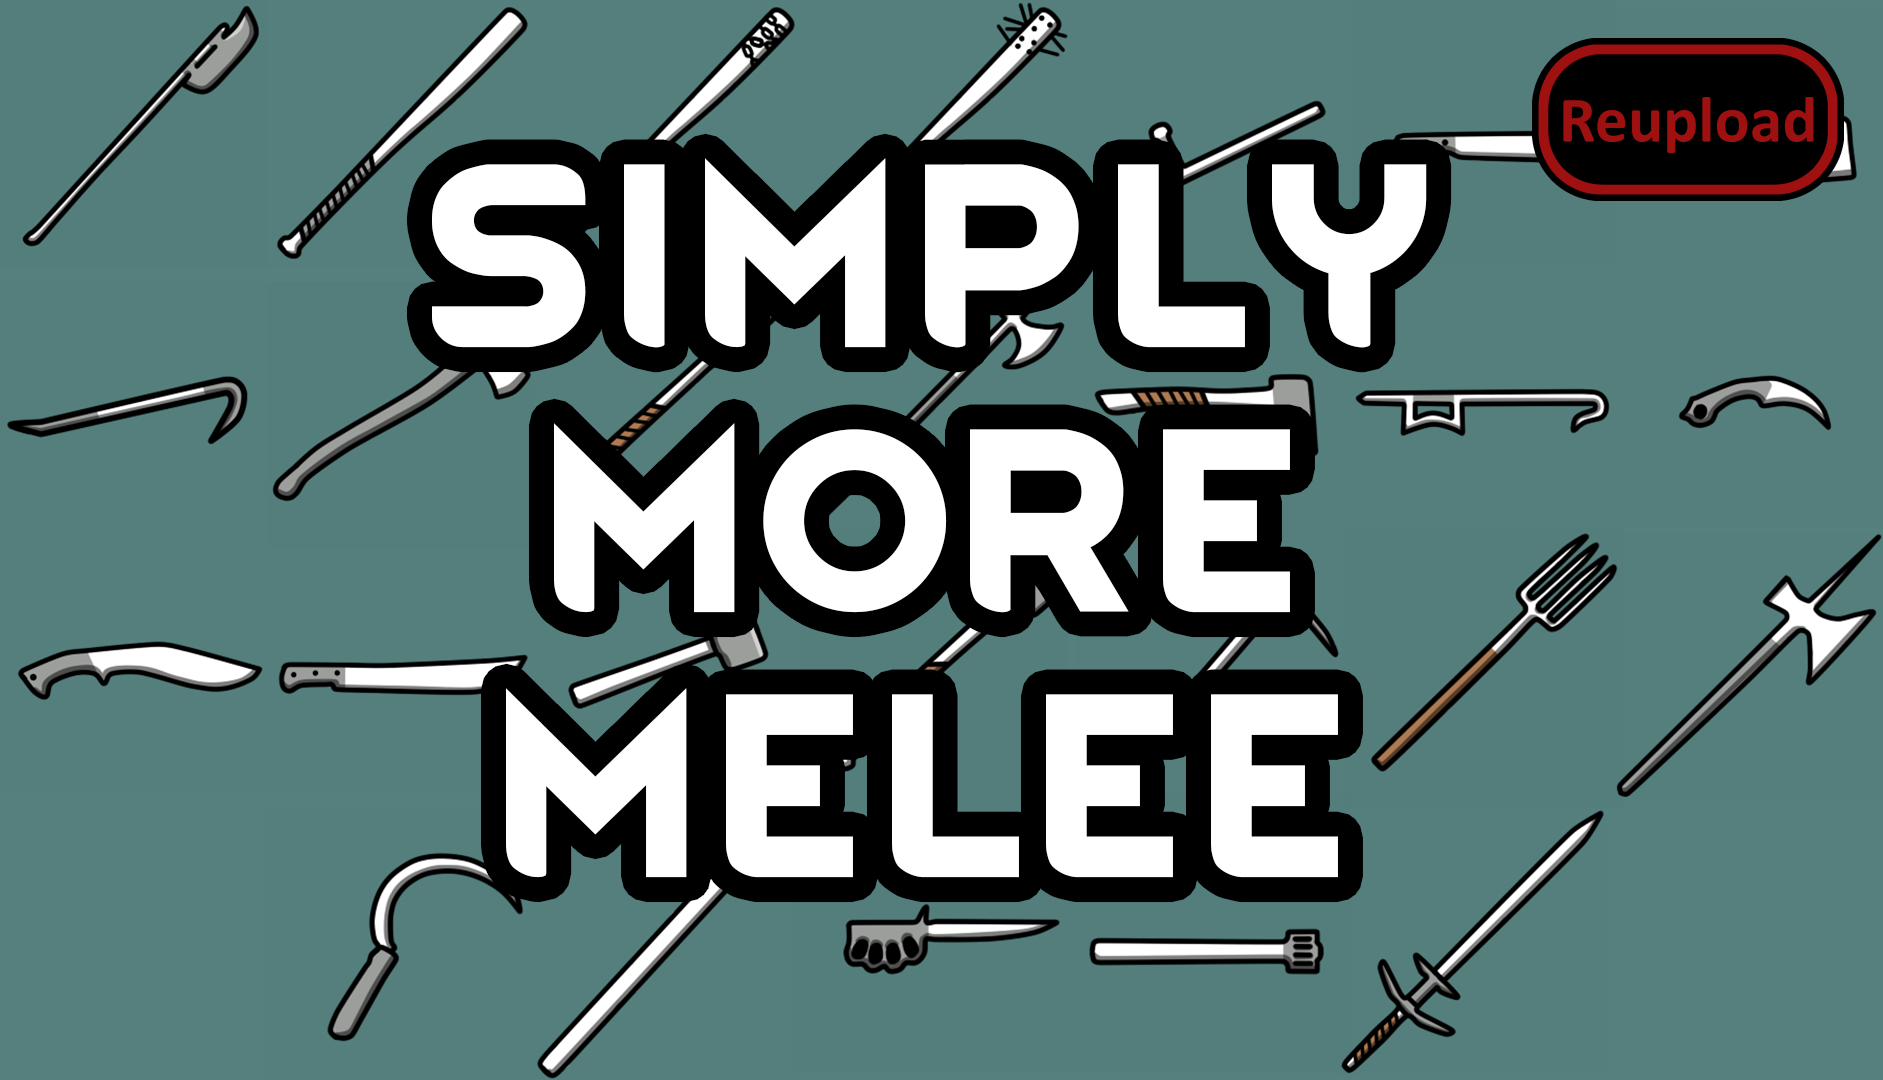
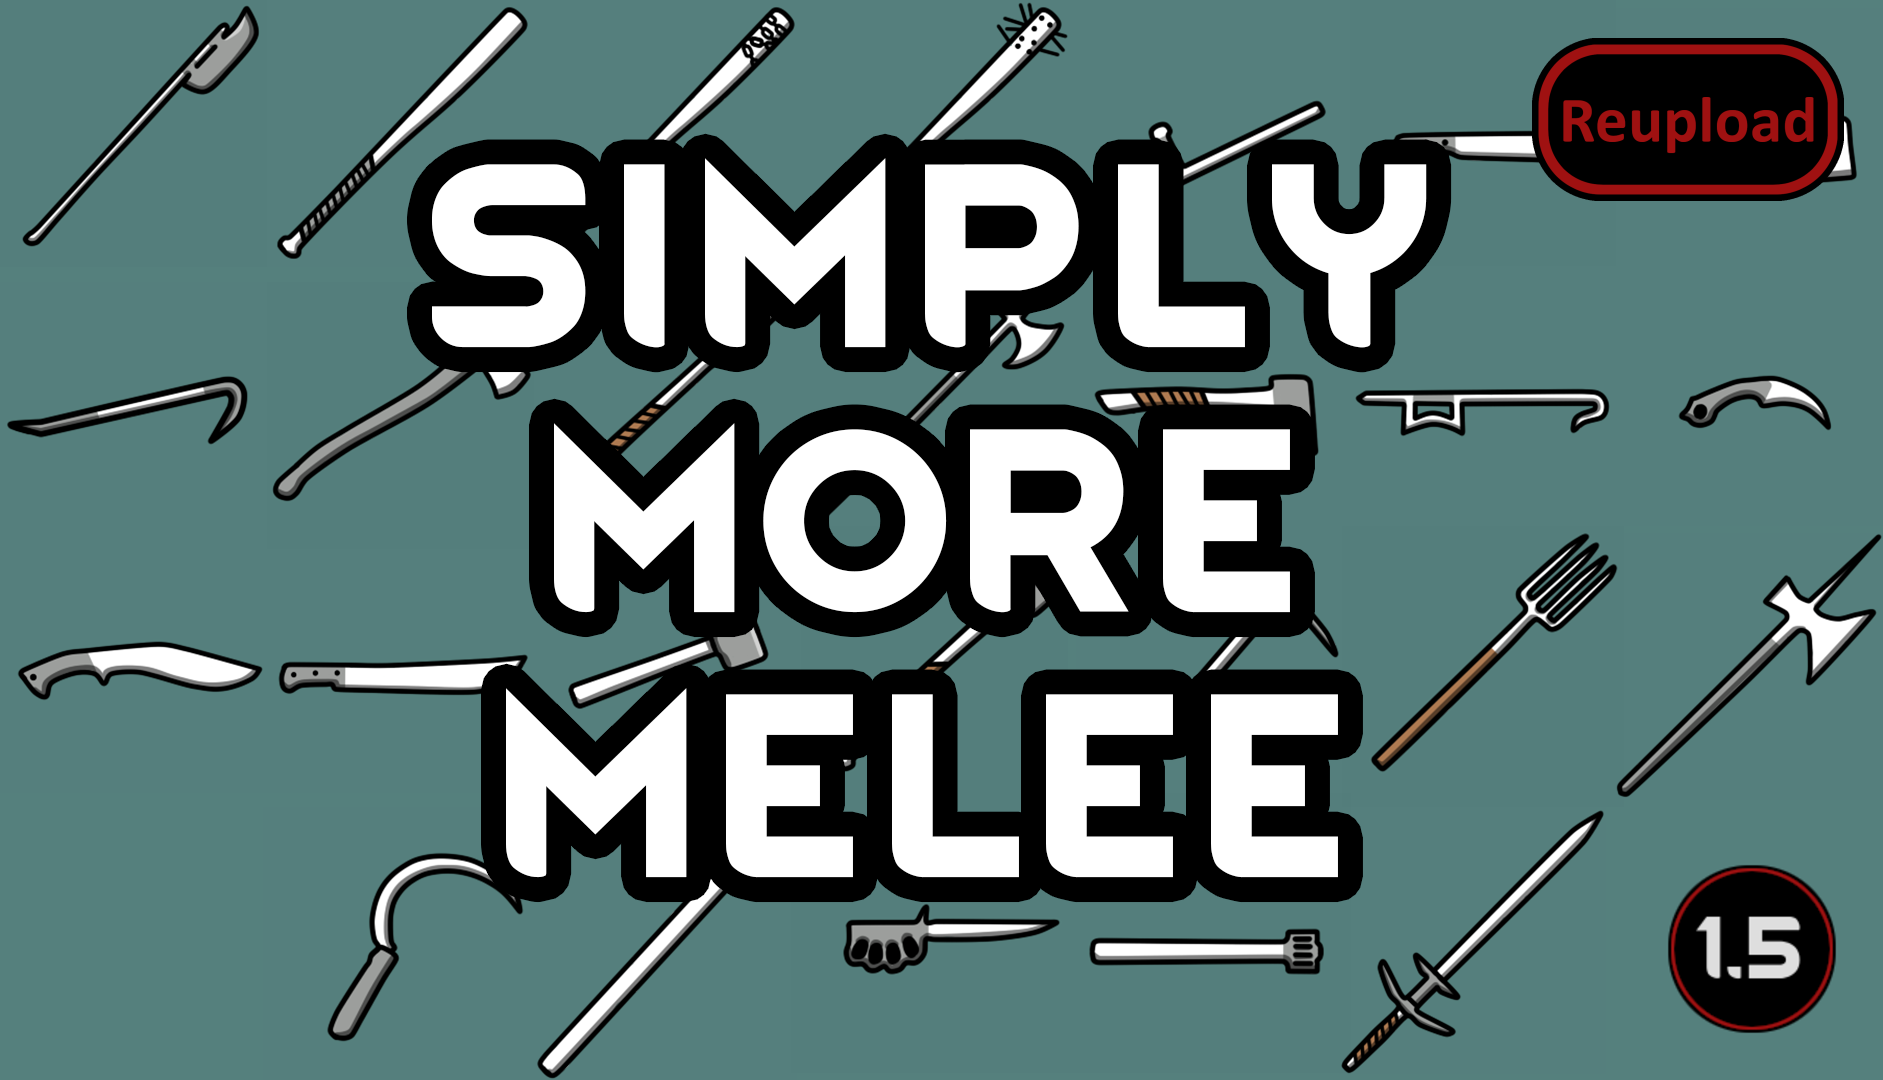
Mod updated for 1.5 and passed autotests

Changed region(s): [[0.8625, 0.7944, 0.9857, 0.9778]]

diff --git a/README.md b/README.md
@@ -33,11 +33,13 @@ Ludeon Forums link : https://ludeon.com/forums/index.php?topic=49574.0
 
 -  See if the the error persists if you just have this mod and its requirements active.
 -  If not, try adding your other mods until it happens again.
--  Post your error-log using https://steamcommunity.com/workshop/filedetails/?id=818773962]HugsLib and command Ctrl+F12
+-  Post your error-log using https://steamcommunity.com/workshop/filedetails/?id=818773962]HugsLib or the standalone https://steamcommunity.com/sharedfiles/filedetails/?id=2873415404]Uploader and command Ctrl+F12
 -  For best support, please use the Discord-channel for error-reporting.
 -  Do not report errors by making a discussion-thread, I get no notification of that.
 -  If you have the solution for a problem, please post it to the GitHub repository.
+-  Use https://github.com/RimSort/RimSort/releases/latest]RimSort to sort your mods
 
 
 
+https://steamcommunity.com/sharedfiles/filedetails/changelog/2571292363]![Image](https://img.shields.io/github/v/release/emipa606/SimplyMoreMelee?label=latest%20version&style=plastic&color=9f1111&labelColor=black)
 
